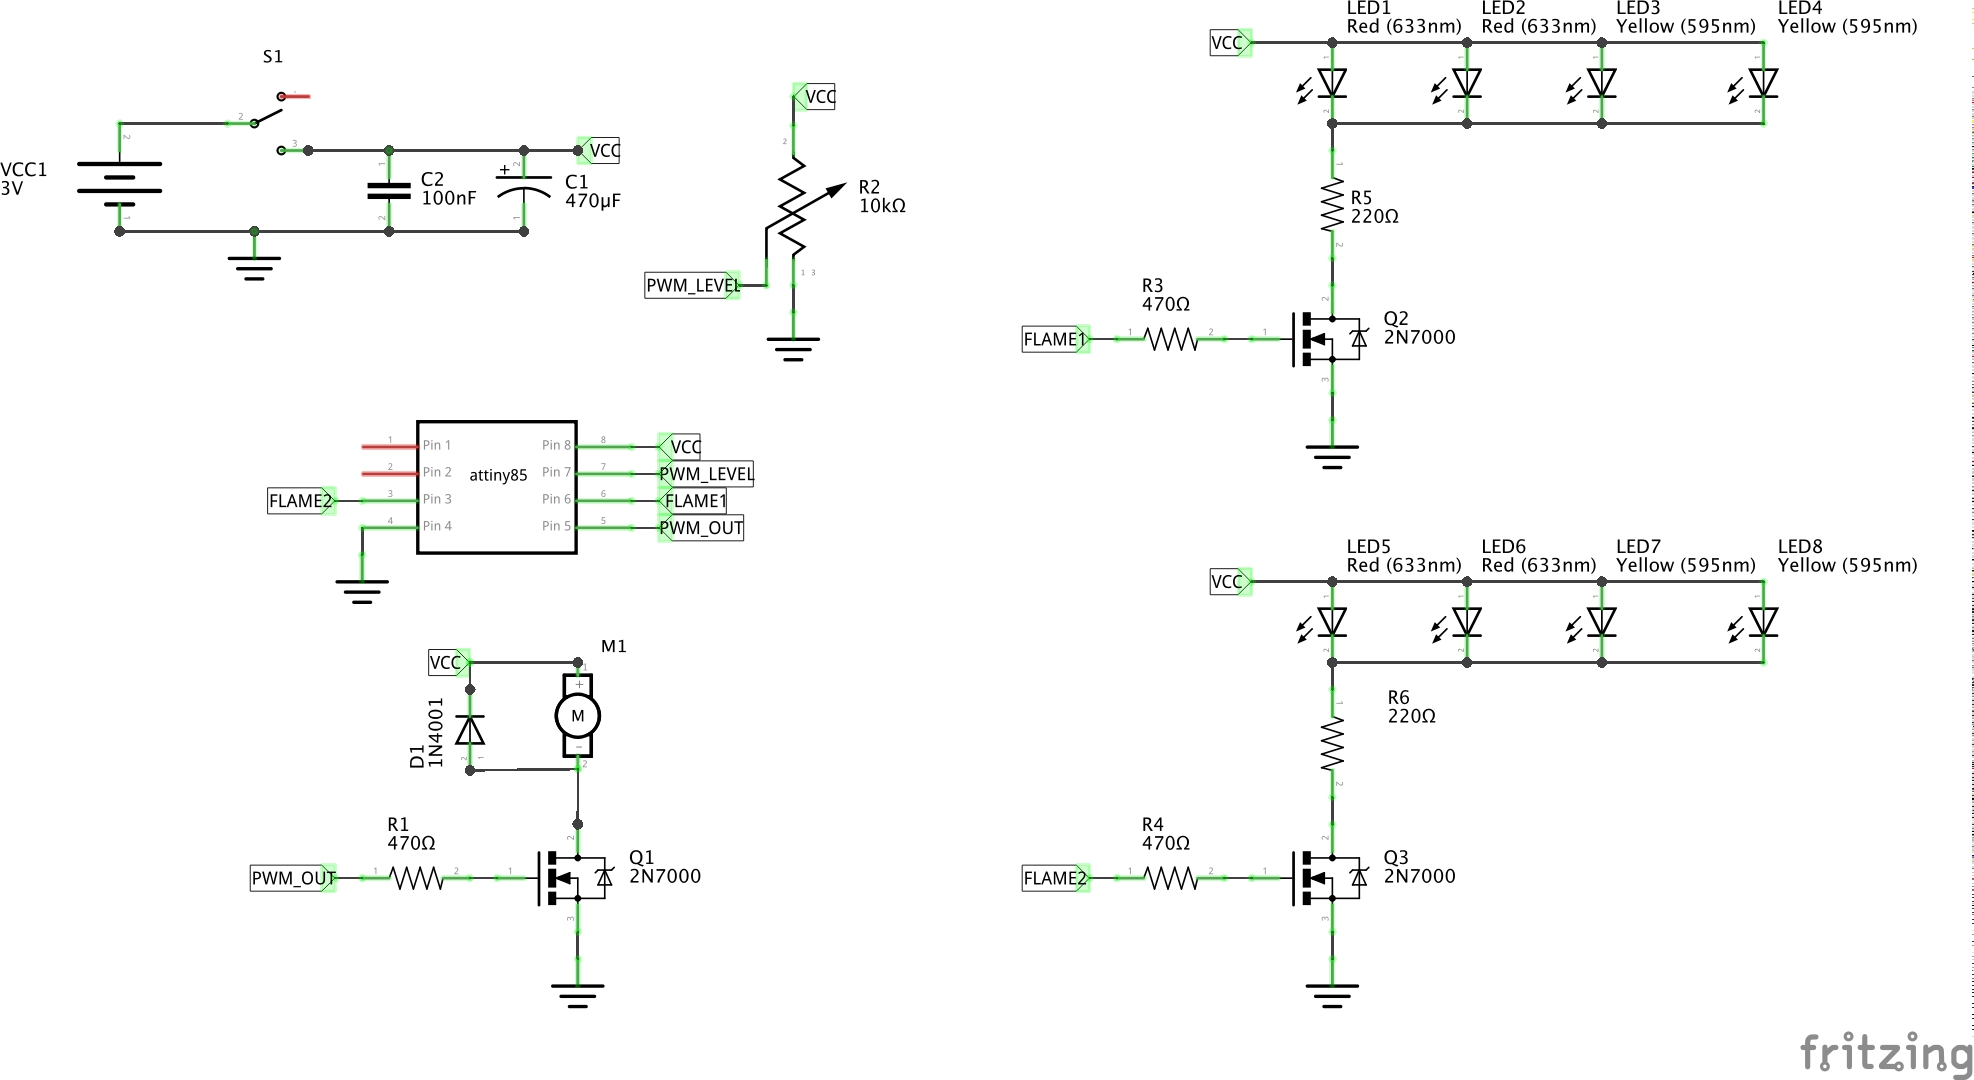
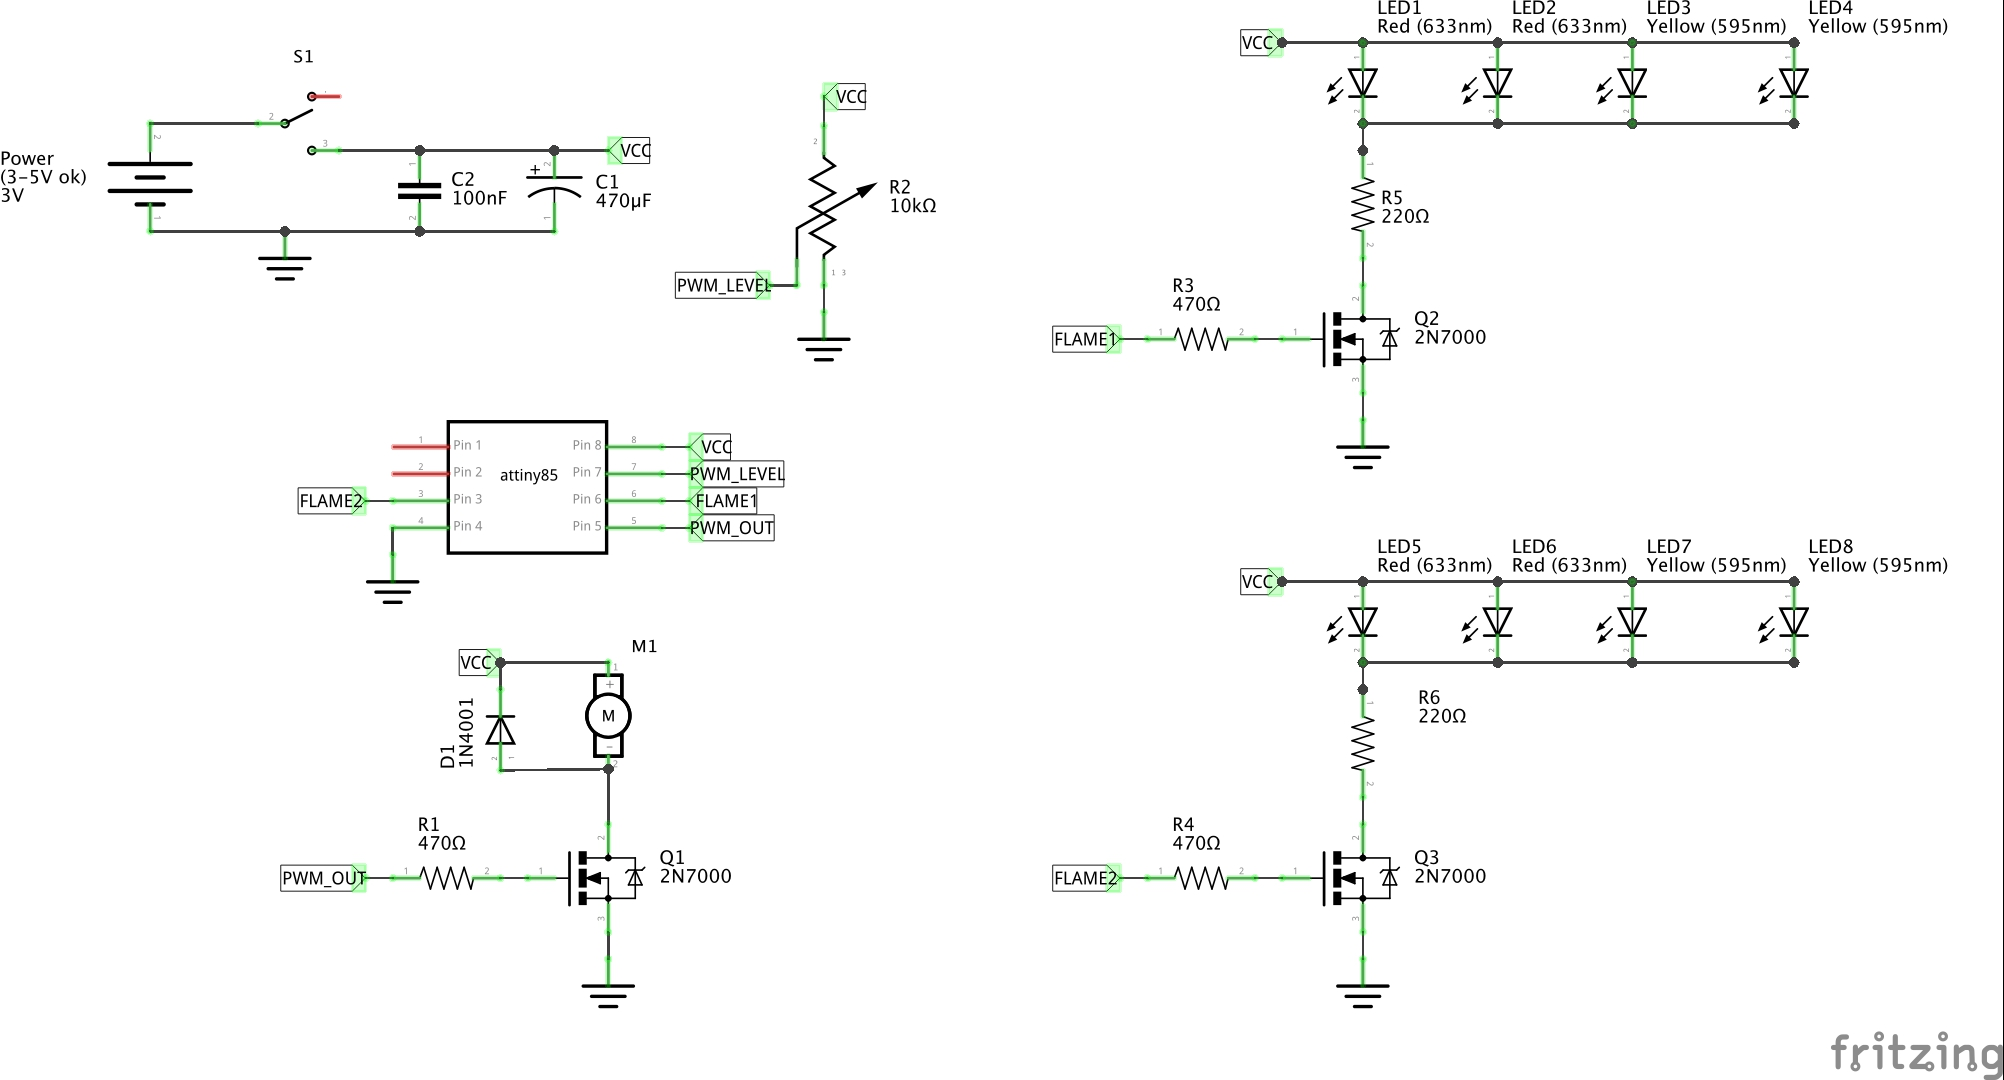
[MitsubishiA5M2b] more notes

diff --git a/Kraft/IJN/MitsubishiA5M2b/README.md b/Kraft/IJN/MitsubishiA5M2b/README.md
@@ -1,6 +1,6 @@
 # #697 IJN/Mitsubishi A5M2b
 
-Building the Wingsy Kits A5M2b in-flight for the 2023 Model Offiers Mess birthday bash raising money and awareness for the Models for Heroes charity.
+Building the Wingsy Kits A5M2b in-flight for the 2023 Model Officers Mess birthday bash raising money and awareness for the Models for Heroes charity.
 
 ![Build](./assets/MitsubishiA5M2b_build.jpg?raw=true)
 
@@ -45,13 +45,39 @@ IJN Type 96 carrier-based fighter II Hyakurihara Kokutai, Ibaraki, 1940-1941 (11
 
 ### Circuit Design
 
+The controller is implemented in code on an ATtiny85. Some circuit notes:
+
+* the PWM outputs are used to control low-side n-channel FETs rather than directly drive the outputs. This ensures that current load on the ATtiny85 does not exceed limits (10mA per pin, 60mA total).
+* the LEDs and accompanying current-limiting resistors are just for demonstration purposes - these can be changed as required for a particular application.
+* the duty cycle of the motor control is set based on reading a variable resistor.
+* a [fly-back diode](http://en.wikipedia.org/wiki/Flyback_diode) is placed across the motor to drain any voltage spike as the motor load is switched
+* I initially built this to be run from 5V USB but got stumped trying to hide a suitable power supply in the picture frame. Luckily, the circuit also works just fin on 3V (2xAAA) - though I don't know how long the batteries will last.
+
 ![bb](./assets/MitsubishiA5M2b_bb.jpg?raw=true)
 
 ![schematic](./assets/MitsubishiA5M2b_schematic.jpg?raw=true)
 
-![bb_build](./assets/MitsubishiA5M2b_bb_build.jpg?raw=true)
+Testing the circuits on a breadboard:
+
+![bb_build](./assets/build05b.jpg?raw=true)
 
 Note: with this motor and propeller, I needed the motor connected in "reverse" for correct prop rotation.
+
+### Code Organisation
+
+The main script [MitsubishiA5M2b.ino](./MitsubishiA5M2b.ino) runs the main loop. It uses two support classes to orchestrate the effects:
+
+* `pwm_motor.h`/`pwm_motor.cpp` encapsulates the PWM motor drive, using variable resistor input to set the duty cycle.
+* `flame.h`/`flame.cpp` implements the flickering algorithm for a the flames.
+    * on each update it adjusts the flames brightness
+    * the maximum change per update is set by the brightness input
+    * the actual change in brightness is determined by the `mix` value for each flame. This sets the percentage of the new value that is mixed with the old value. Lower values will mean more slowly changing updates
+
+See the [GitHub repo](https://github.com/tardate/LittleArduinoProjects/tree/master/Kraft/IJN/MitsubishiA5M2b) for sources.
+
+The ATtiny85 is programmed using an Arduino Uno as the in-circuit programmer
+
+![programming_the_attiny](./assets/programming_the_attiny.png?raw=true)
 
 ### Build Log
 
@@ -77,11 +103,9 @@ Saying goodnight from UTC+8 for now and see you all in the morning. Great time s
 
 ![fri-night-close](./assets/fri-night-close.jpg?raw=true)
 
-
 a bit of head-scratching later and I figured out how all the engine parts fit together!
 
 ![build01g](./assets/build01g.jpg?raw=true)
-
 
 ![build02a](./assets/build02a.jpg?raw=true)
 ![build02b](./assets/build02b.jpg?raw=true)
@@ -92,7 +116,6 @@ a bit of head-scratching later and I figured out how all the engine parts fit to
 ![build02g](./assets/build02g.jpg?raw=true)
 ![build02h](./assets/build02h.jpg?raw=true)
 ![build02i](./assets/build02i.jpg?raw=true)
-
 
 a pity it's all going to be hidden away, but I blew my morning time budget on the cockpit. the kit makes it pretty irresistible!
 
@@ -179,3 +202,6 @@ Wingsy Kits A5M2b "bring it home through the fire and flames". Had a little fun 
 * [A5M2b 'Claude' (Early) D5-03 Build By Chris Meddings - Models for Ukraine Vol2 p114](https://www.insidethearmour.com/product-page/models-for-ukraine-vol-2-preorder)
 * [A5M4 D5-02 Build By Jeremy Moore - Models for Ukraine Vol1 p11](https://www.insidethearmour.com/product-page/models-for-ukraine-ebook)
 * [Kawasaki Ki-61-Id Hien (Tony) Tamiya No. 61115 1:48](https://www.scalemates.com/kits/tamiya-61115-kawasaki-ki-61-id-hien-tony--1017255)
+* [ATtiny85 datasheet](https://www.microchip.com/en-us/product/ATTINY85)
+* [2N7000 datasheet](https://www.futurlec.com/Transistors/2N7000.shtml)
+* [1N4001 Datasheet](https://www.futurlec.com/Diodes/1N4001.shtml)

diff --git a/README.md b/README.md
@@ -1,6 +1,6 @@
 # 697 Little Electronic Art Projects
 
-> Latest addition:sparkles: [Mitsubishi A5M2b](./Kraft/IJN/MitsubishiA5M2b) - Building the Wingsy Kits A5M2b in-flight for the 2023 Model Offiers Mess birthday bash raising money and awareness for the Models for Heroes charity.
+> Latest addition:sparkles: [Mitsubishi A5M2b](./Kraft/IJN/MitsubishiA5M2b) - Building the Wingsy Kits A5M2b in-flight for the 2023 Model Officers Mess birthday bash raising money and awareness for the Models for Heroes charity.
 
 Just my collection of projects, many involving electronics or an Arduino in one way or another.
 Some are full builds (like [The FretBoard](./FretBoard)),
